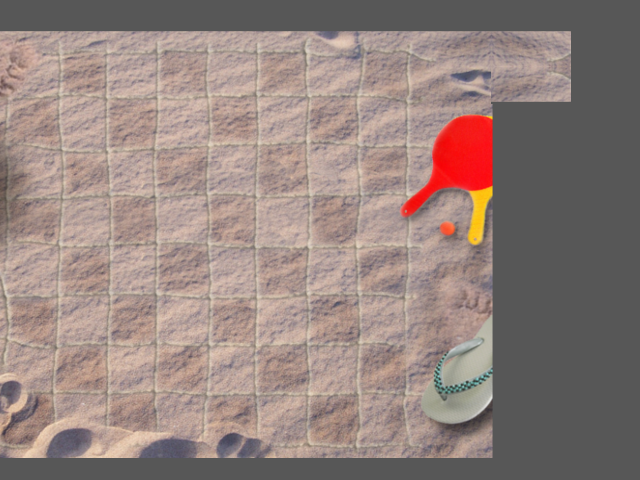
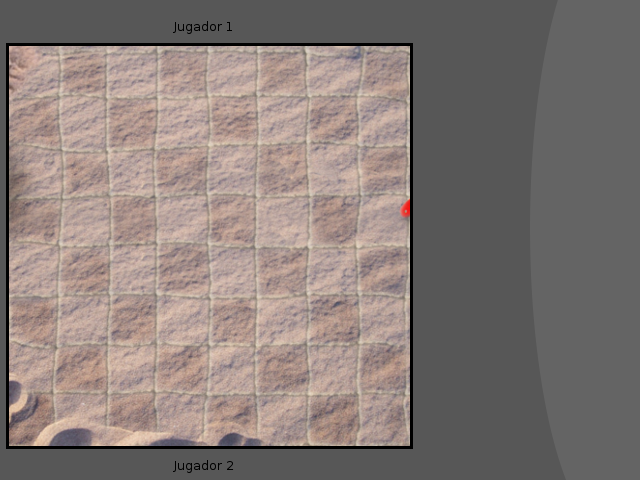
nuevo objeto Turn y animaciones en los botones.

Changed region(s): [[0.0, 0.0312, 0.9062, 1.0]]

diff --git a/table.py b/table.py
@@ -17,7 +17,7 @@ class Table:
     # Casilleros en los que las columnas son pares
     squares_even_column = [1,2,3,4,9,10,11,12,17,18,19,20,25,26,27,28]
 
-    def __init__(self, group, theme):
+    def __init__(self, group, theme, turn):
         """Inicializador de la clase"""
         self.group = group
         self.image = common.load_image('table.png', theme)
@@ -25,7 +25,9 @@ class Table:
         self._create_checkers()
 
         # jugador al que le corresponde mover
-        self.player_move = 1
+        self.turn = turn
+        self.player_move = 2
+        self.change_turn()
 
         # setea las posiciones iniciales de las
         # piezas ocupadas
@@ -52,6 +54,7 @@ class Table:
             adjacent_position = checker.position + pos
             if not self.square_occupied(adjacent_position):
                 result.append(adjacent_position)
+
         print "Posicion de la pieza:", checker.position
         print "Posibles movimientos:", result
         return result
@@ -112,7 +115,7 @@ class Table:
         if player == self.player_move:
             return True
         else:
-            print "No es tu turno"
+            #print "No es tu turno"
             return False
 
     def change_turn(self):
@@ -120,6 +123,8 @@ class Table:
             self.player_move = 2
         else:
             self.player_move = 1
+
+        self.turn.change(self.player_move)
 
     def change_theme(self, theme):
         self.image = common.load_image('table.png', theme)

diff --git a/gui/turn.py b/gui/turn.py
@@ -1,0 +1,45 @@
+# -*- coding: utf-8 -*-
+import pygame
+from pygame.sprite import Sprite
+import common
+from config import THEME
+import pygame
+
+
+class Turn(Sprite):
+    """Representa un visor de turnos, indicando que jugador debe mover la 
+    siguiente pieza del juego."""
+
+    def __init__(self):
+        Sprite.__init__(self)
+        self.base_image = common.load_image('turn.png', THEME)
+        self.can_drag = False
+        self.can_click = False
+        self.font = pygame.font.Font(None, 25)
+        self.update = self.update_starting
+        self.movement = common.interpolate((640, 200), (445, 200))
+        self.image = self.base_image.copy()
+        self.rect = self.image.get_rect()
+
+    def change(self, player):
+        "Altera el mensaje de texto indicado el jugador con turno."
+        self.image = self.base_image.copy()
+        text = "Turno del jugador: %d" %(player)
+        text_image = self.font.render(text, 1, (0, 0, 0))
+        self.image.blit(text_image, (5, 5))
+
+    def on_mouse_move(self):
+        pass
+
+    def on_mouse_leave(self):
+        pass
+
+    def update_normal(self):
+        pass
+
+    def update_starting(self):
+        "Actualiza el movimiento del cuadro mientras inicia la escena."
+        try:
+            self.rect.topleft = self.movement.next()
+        except StopIteration:
+            self.update = self.update_normal

diff --git a/gui/mouse.py b/gui/mouse.py
@@ -35,11 +35,6 @@ class Mouse(Sprite):
 
         callbacks[event.type](event)
 
-
-    def draw(self, screen):
-        if self.visible:
-            screen.blit(self.image, self.rect.topleft)
-
     def on_mouse_button_up(self, event):
         if self.widget_on_drag:
             self.widget_on_drag.on_mouse_drag_end()
@@ -64,7 +59,10 @@ class Mouse(Sprite):
                 if obj.can_click:
                     self.image = self.over_click_image
                 elif obj.can_drag:
-                    self.image = self.over_drag_image
+                    if obj.can_drag_me_actual_player():
+                        self.image = self.over_drag_image
+                    else:
+                        self.image = self.over_cant_image
             else:
                 self.image = self.normal_image
 
@@ -92,8 +90,9 @@ class Mouse(Sprite):
         load = common.load_image
 
         self.normal_image = load("normal.png", 'mouse')
-        self.over_click_image = load("over_click.png", 'mouse')
-        self.over_drag_image = load("over_drag.png", 'mouse')
+        self.over_click_image = load("yes.png", 'mouse')
+        self.over_drag_image = load("yes.png", 'mouse')
+        self.over_cant_image = load("no.png", 'mouse')
         self.click_image = load("click.png", 'mouse')
         self.drag_image = load("drag.png", 'mouse')
         self.hide = load("hide.png", 'mouse')

diff --git a/gui/button.py b/gui/button.py
@@ -2,17 +2,27 @@
 import pygame
 from pygame.sprite import Sprite
 from common import load_image
+import common
 
 class Button(Sprite):
 
-    def __init__(self, label, x, y):
+    def __init__(self, label, x, y, callback):
         Sprite.__init__(self)
         self._create_images(label)
         self.image = self.glass_image
         self.rect = self.image.get_rect()
-        self.rect.move_ip(x, y)
         self.can_click = True
         self.can_drag = False
+        self.x = 640
+        self.y = y
+        self.to_x = x
+        self.to_y = y
+        self.callback = callback
+
+    def update(self):
+        self.x += (self.to_x - self.x) / common.MOTION_SPEED
+        self.y += (self.to_y - self.y) / common.MOTION_SPEED
+        self.rect.topleft = int(self.x), int(self.y)
 
     def on_mouse_move(self):
         self.image = self.normal_image
@@ -21,9 +31,13 @@ class Button(Sprite):
         self.image = self.glass_image
 
     def on_mouse_click(self):
-        print "Ha pulsado este boton: %s" %str(self)
+        self.x = self.to_x + 10
+        self.y = self.to_y + 10
+        self.callback()
 
     def _create_images(self, label):
         self.normal_image = load_image("%s.png" %label, "buttons")
         self.glass_image = load_image("%s.png" %label, "buttons").convert()
         self.glass_image.set_alpha(128)
+
+

diff --git a/world.py b/world.py
@@ -8,13 +8,14 @@ class World:
     
     def __init__(self):
         pygame.display.init()
+        pygame.font.init()
         self.screen = pygame.display.set_mode(WINDOW_SIZE)
         self.clock = pygame.time.Clock()
         self.group = pygame.sprite.OrderedUpdates()
         pygame.display.set_caption(WINDOW_TITLE)
-        self._create_buttons()
+        self._create_ui()
 
-        self.table = Table(self.group, THEME)
+        self.table = Table(self.group, THEME, self.turn)
 
         self.gui = gui.Gui(self.group.sprites())
         self.mouse = gui.Mouse(self.gui)
@@ -49,13 +50,15 @@ class World:
         pygame.display.update(self.group.draw(self.screen))
         self.clock.tick(60)
 
-    def _create_buttons(self):
-        b1 = gui.Button("classic", 520, 45)
-        b2 = gui.Button("beach", 520, 100)
+    def _create_ui(self):
+        b1 = gui.Button("classic", 520, 45, self.on_classic__clicked)
+        b2 = gui.Button("beach", 520, 100, self.on_beach__clicked)
         self.group.add(b1, b2)
 
-        b1.on_mouse_click = self.on_classic__clicked
-        b2.on_mouse_click = self.on_beach__clicked
+        # genera el visor de turnos
+        self.turn = gui.Turn()
+        self.group.add(self.turn)
+
 
     def on_classic__clicked(self):
         self.change_theme("classic")

diff --git a/common.py b/common.py
@@ -6,16 +6,19 @@ MOTION_SPEED = 5.0
 
 
 def load_image(file, theme):
+    "Carga una imagen dentro del tema indicado."
     image = pygame.image.load('ima/%s/%s' %(theme, file))
     return image.convert_alpha()
 
 def bring_to_front(sprite):
+    "Trae un sprite al frente del grupo."
     for g in sprite.groups():
         g.remove(sprite)
         g.add(sprite)
 
 
 def interpolate((x, y), (to_x, to_y)):
+    "Retorna un generador que aproxima gradualmente un punto a otro."
 
     while True:
         dist_x = to_x - x

diff --git a/checker.py b/checker.py
@@ -7,6 +7,7 @@ from states import *
 NORMAL, OVER, DRAG = 0, 1, 2
 
 class Checker(Sprite):
+    "Representa un pieza del juego."
     
     def __init__(self, player, initial_position, table):
         Sprite.__init__(self)
@@ -79,3 +80,6 @@ class Checker(Sprite):
         else:
             # regresa a su posicion inicial
             self.change_state(Moving(self, from_x, from_y))
+
+    def can_drag_me_actual_player(self):
+        return self.table.my_turn(self.player)

diff --git a/gui/__init__.py b/gui/__init__.py
@@ -1,3 +1,4 @@
 from gui import Gui
 from mouse import Mouse
 from button import Button
+from turn import Turn
